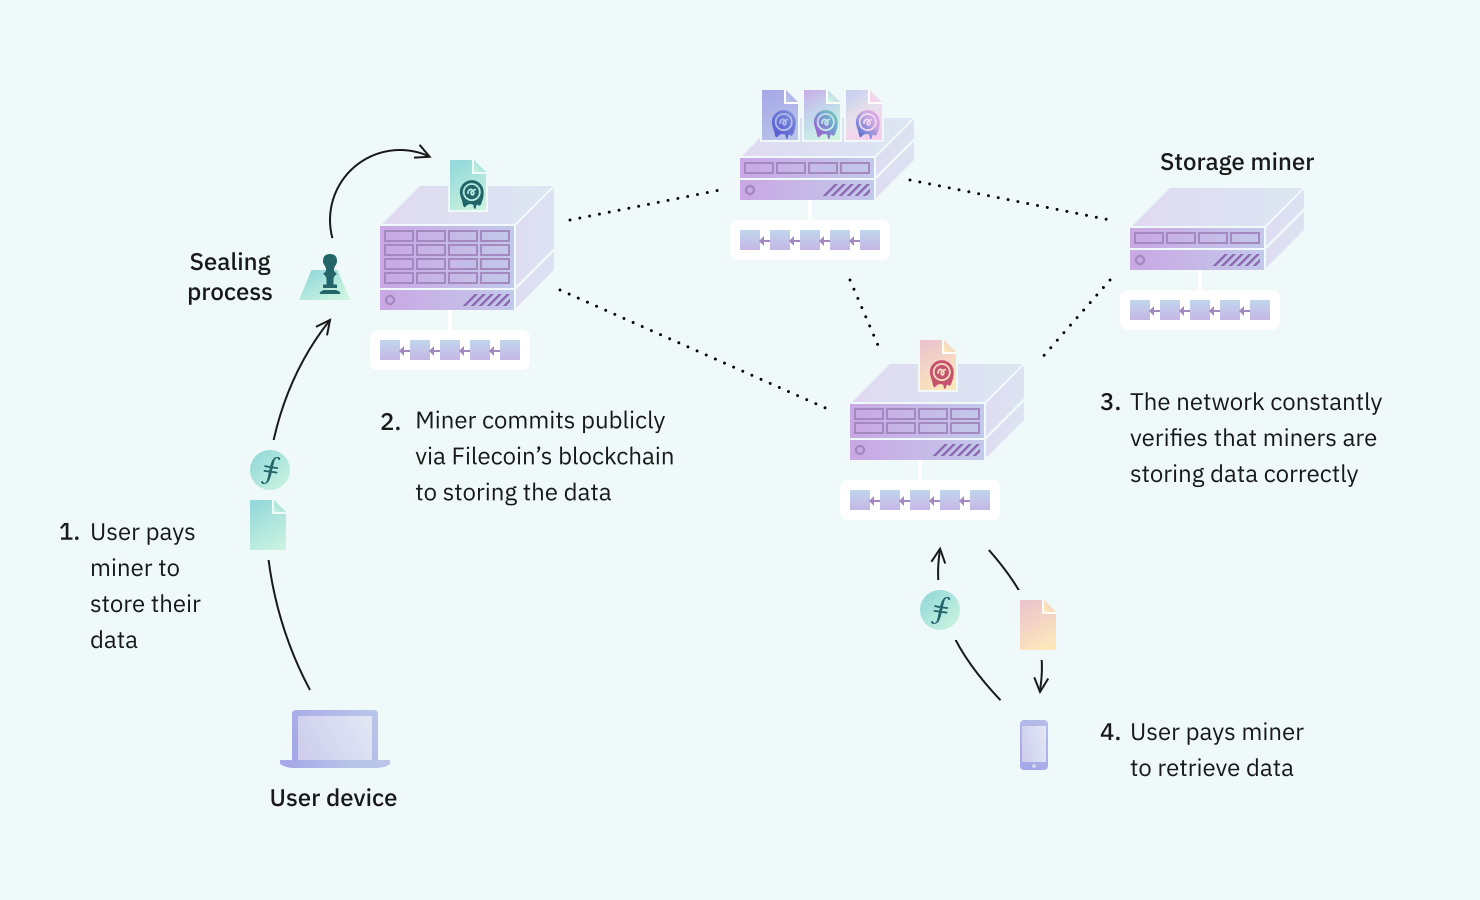
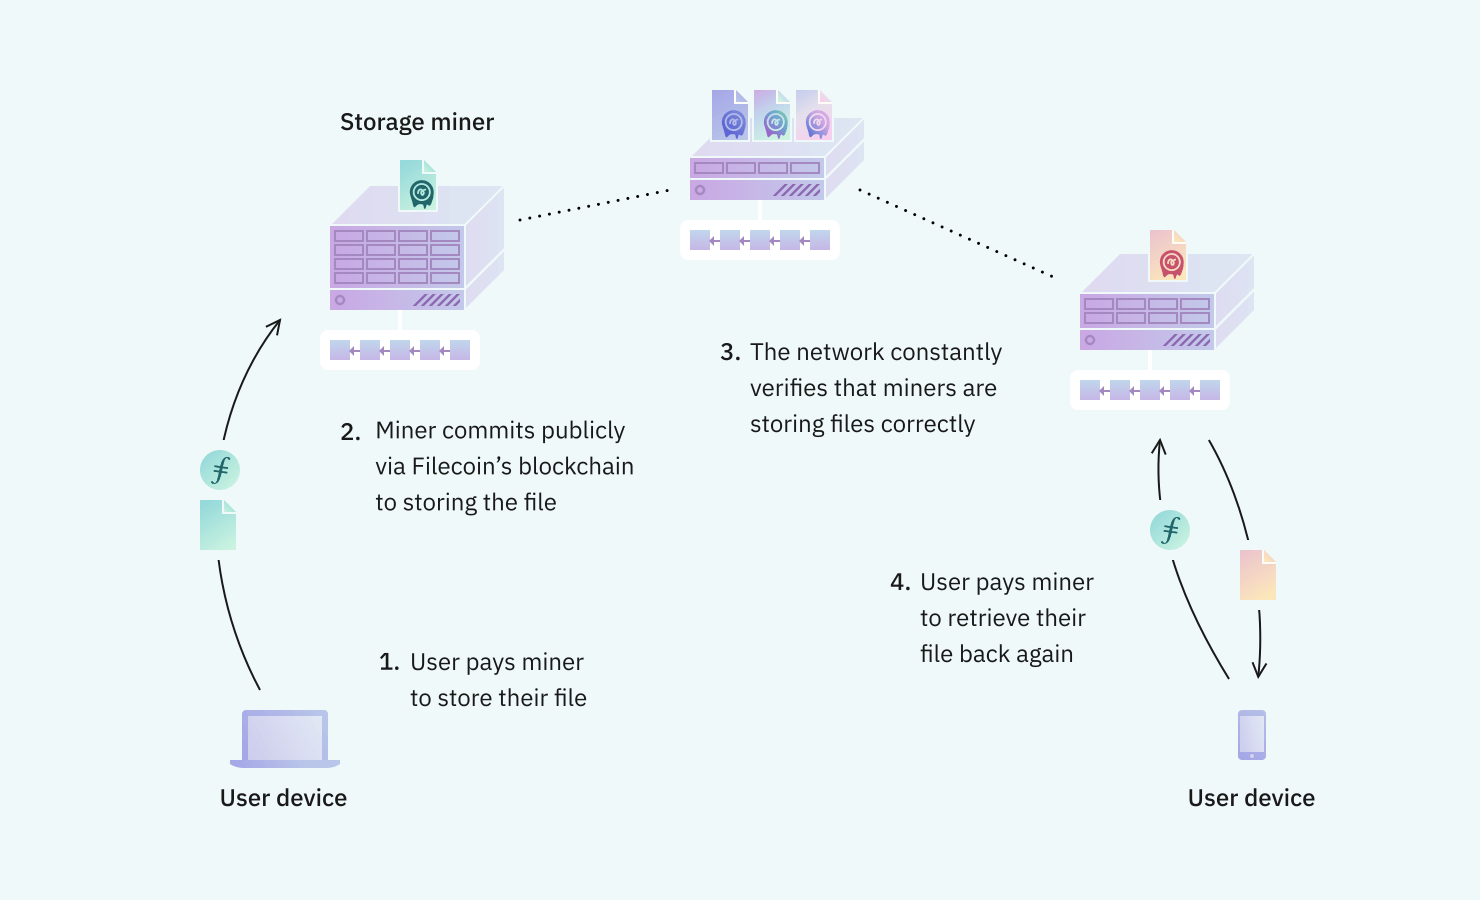
Apply review feedback to "What is Filecoin?" page

diff --git a/docs/concepts/what-is-filecoin.md b/docs/concepts/what-is-filecoin.md
@@ -4,24 +4,26 @@ title: What is Filecoin?
 
 # What is Filecoin?
 
-**Filecoin is a peer-to-peer network that stores files on the internet, with built-in economic incentives to ensure files are stored reliably over time.**
+**Filecoin is a peer-to-peer network that stores files, with built-in economic incentives to ensure files are stored reliably over time.**
 
-In Filecoin, users pay storage miners to store their files. Storage miners are computers responsible for storing files and proving they have stored the files correctly over time. Anyone who wants to store their files or get paid for storing other users’ files can join Filecoin. Available storage and pricing is not controlled by any single company. Instead, Filecoin facilitates open markets for storing and retrieving files that anyone can participate in.
+In Filecoin, users pay to store their files on storage miners. Storage miners are computers responsible for storing files and proving they have stored the files correctly over time. Anyone who wants to store their files or get paid for storing other users’ files can join Filecoin. Available storage and pricing is not controlled by any single company. Instead, Filecoin facilitates open markets for storing and retrieving files that anyone can participate in.
 
-![Diagram showing a four-step process for storing data with Filecoin. First step: User pays miner to store their data. Second step: Miner commits publicly via Filecoin’s blockchain to storing the data. Third step: The network constantly verifies that miners are storing data correctly. Fourth step: User pays miner to retrieve data.](./images/what-is-filecoin.png)
+Filecoin includes a blockchain and native cryptocurrency (FIL). Storage miners earn units of FIL for storing files. Filecoin’s blockchain records transactions to send and receive FIL, along with proofs from storage miners that they are storing their files correctly.
+
+![Diagram showing a four-step process for storing files with Filecoin. First step: User who wants to store a file pays miner to store their file. Second step: Miner commits publicly via Filecoin’s blockchain to storing the file. Third step: The network constantly verifies that miners are storing files correctly. Fourth step: User pays miner to retrieve their file.](./images/what-is-filecoin.png)
 
 ## For users
 
-Filecoin provides users assurance that their files have been stored safely and will be available in the future.
+Filecoin enables users to store their files at hypercompetitive prices and verify that their files are being stored correctly.
 
-Users can choose their preferred trade-off between cost, redundancy and speed by selecting the particular miners which store their files, or let software decide on their behalf. Applications that implement Filecoin can negotiate storage with any miner on the network. Unlike centralized storage systems, there is no need to implement a different API for each provider.
+Users can choose their preferred trade-off between cost, redundancy and speed by selecting the miner whose storage offer is best suited for their needs. Applications that implement Filecoin can negotiate storage with any miner on the network. Unlike centralized storage systems, there is no need to implement a different API for each provider.
 
-At any time, users can verify that their files are being stored correctly by looking at proofs on Filecoin’s blockchain. This blockchain also powers Filecoin’s payment network and token, which are used to pay for storage. Users don’t have to deal with the friction or fees associated with centralized payment networks.
+At any time, users can verify that their files are being stored correctly by looking at proofs on Filecoin’s blockchain.
 
 ## For storage providers
 
 Filecoin enables storage providers to sell their storage on an open market.
 
-Storage providers are people and organizations that run miners, earning Filecoin tokens for doing so. A miner could be any internet-connected computer with spare disk space, or a dedicated system with lots of storage built specifically for Filecoin. Filecoin’s blockchain rewards miners for storing files, not for completing arbitrary proof-of-work computations.
+Storage providers are people and organizations that run miners, earning Filecoin tokens for doing so. A miner could be any internet-connected computer with spare disk space, or a dedicated system with lots of storage built specifically for Filecoin. Filecoin’s blockchain rewards miners for contributing useful storage to the internet, not for completing wasteful proof-of-work computations.
 
 Once a storage provider implements the Filecoin protocol, they gain access to the entire market of Filecoin users. Providers don’t need to design their own storage API or advertise their offering themselves as this is handled by Filecoin’s protocol and network. Filecoin enables a thriving, decentralized ecosystem of independent storage providers by removing barriers to entry.
